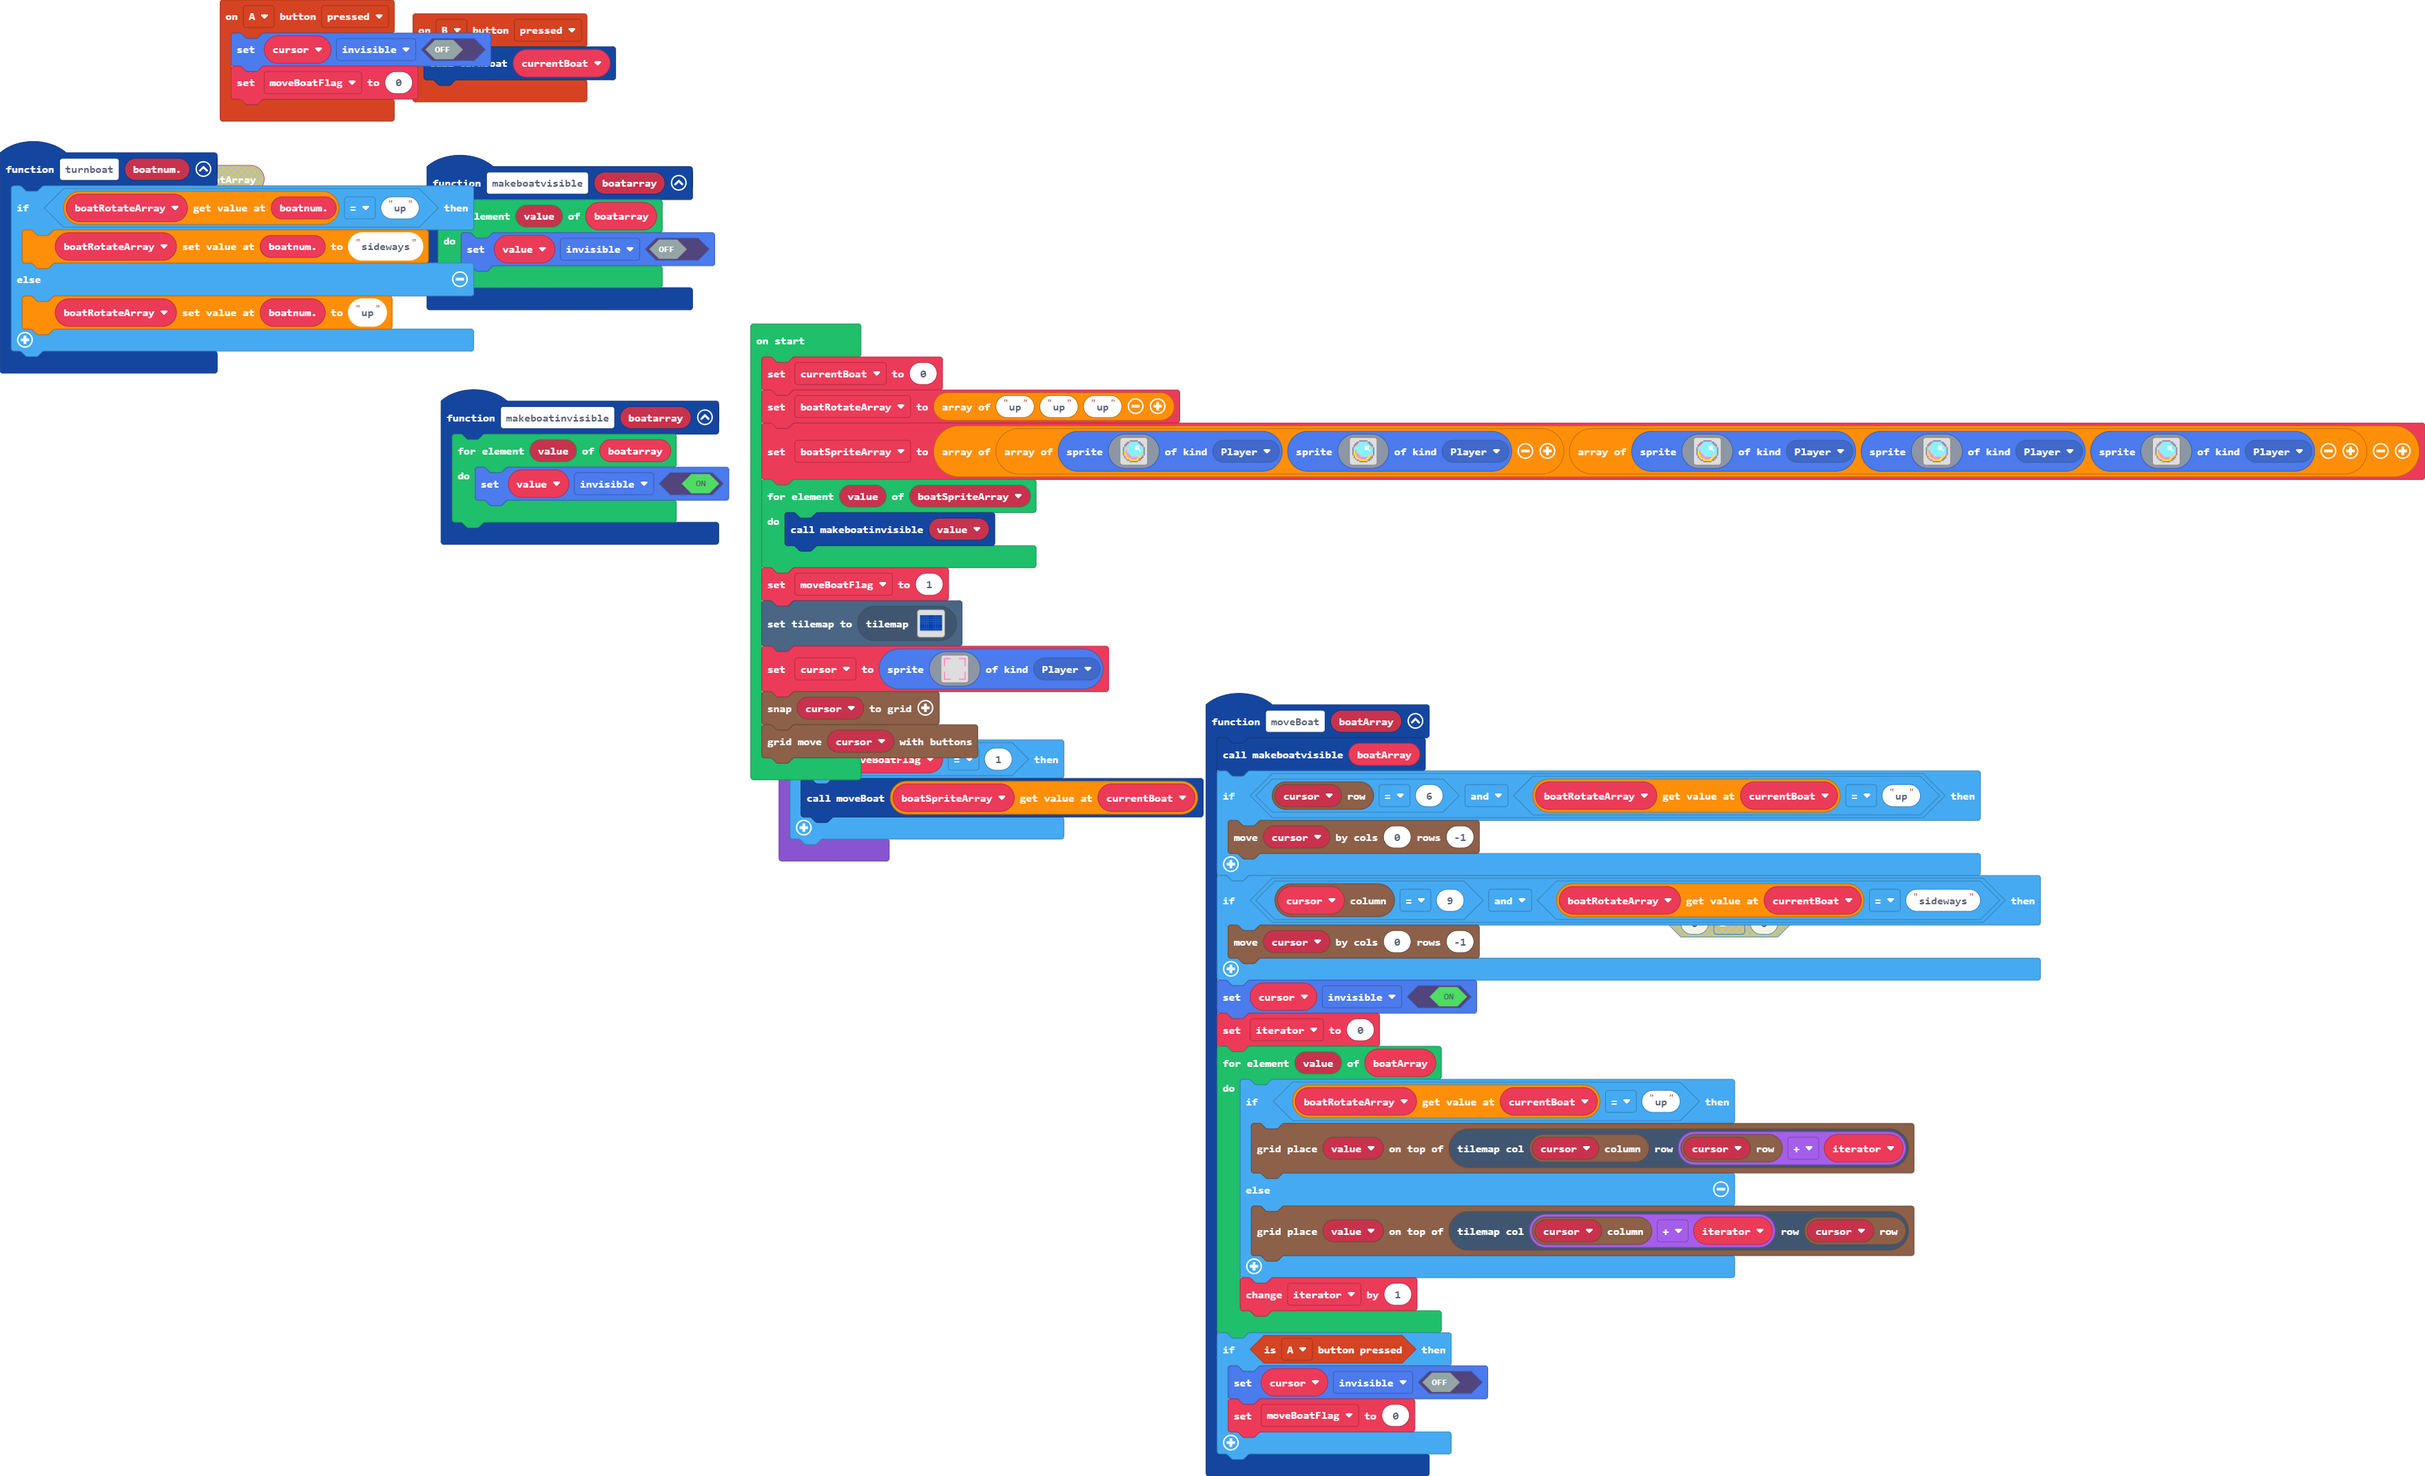
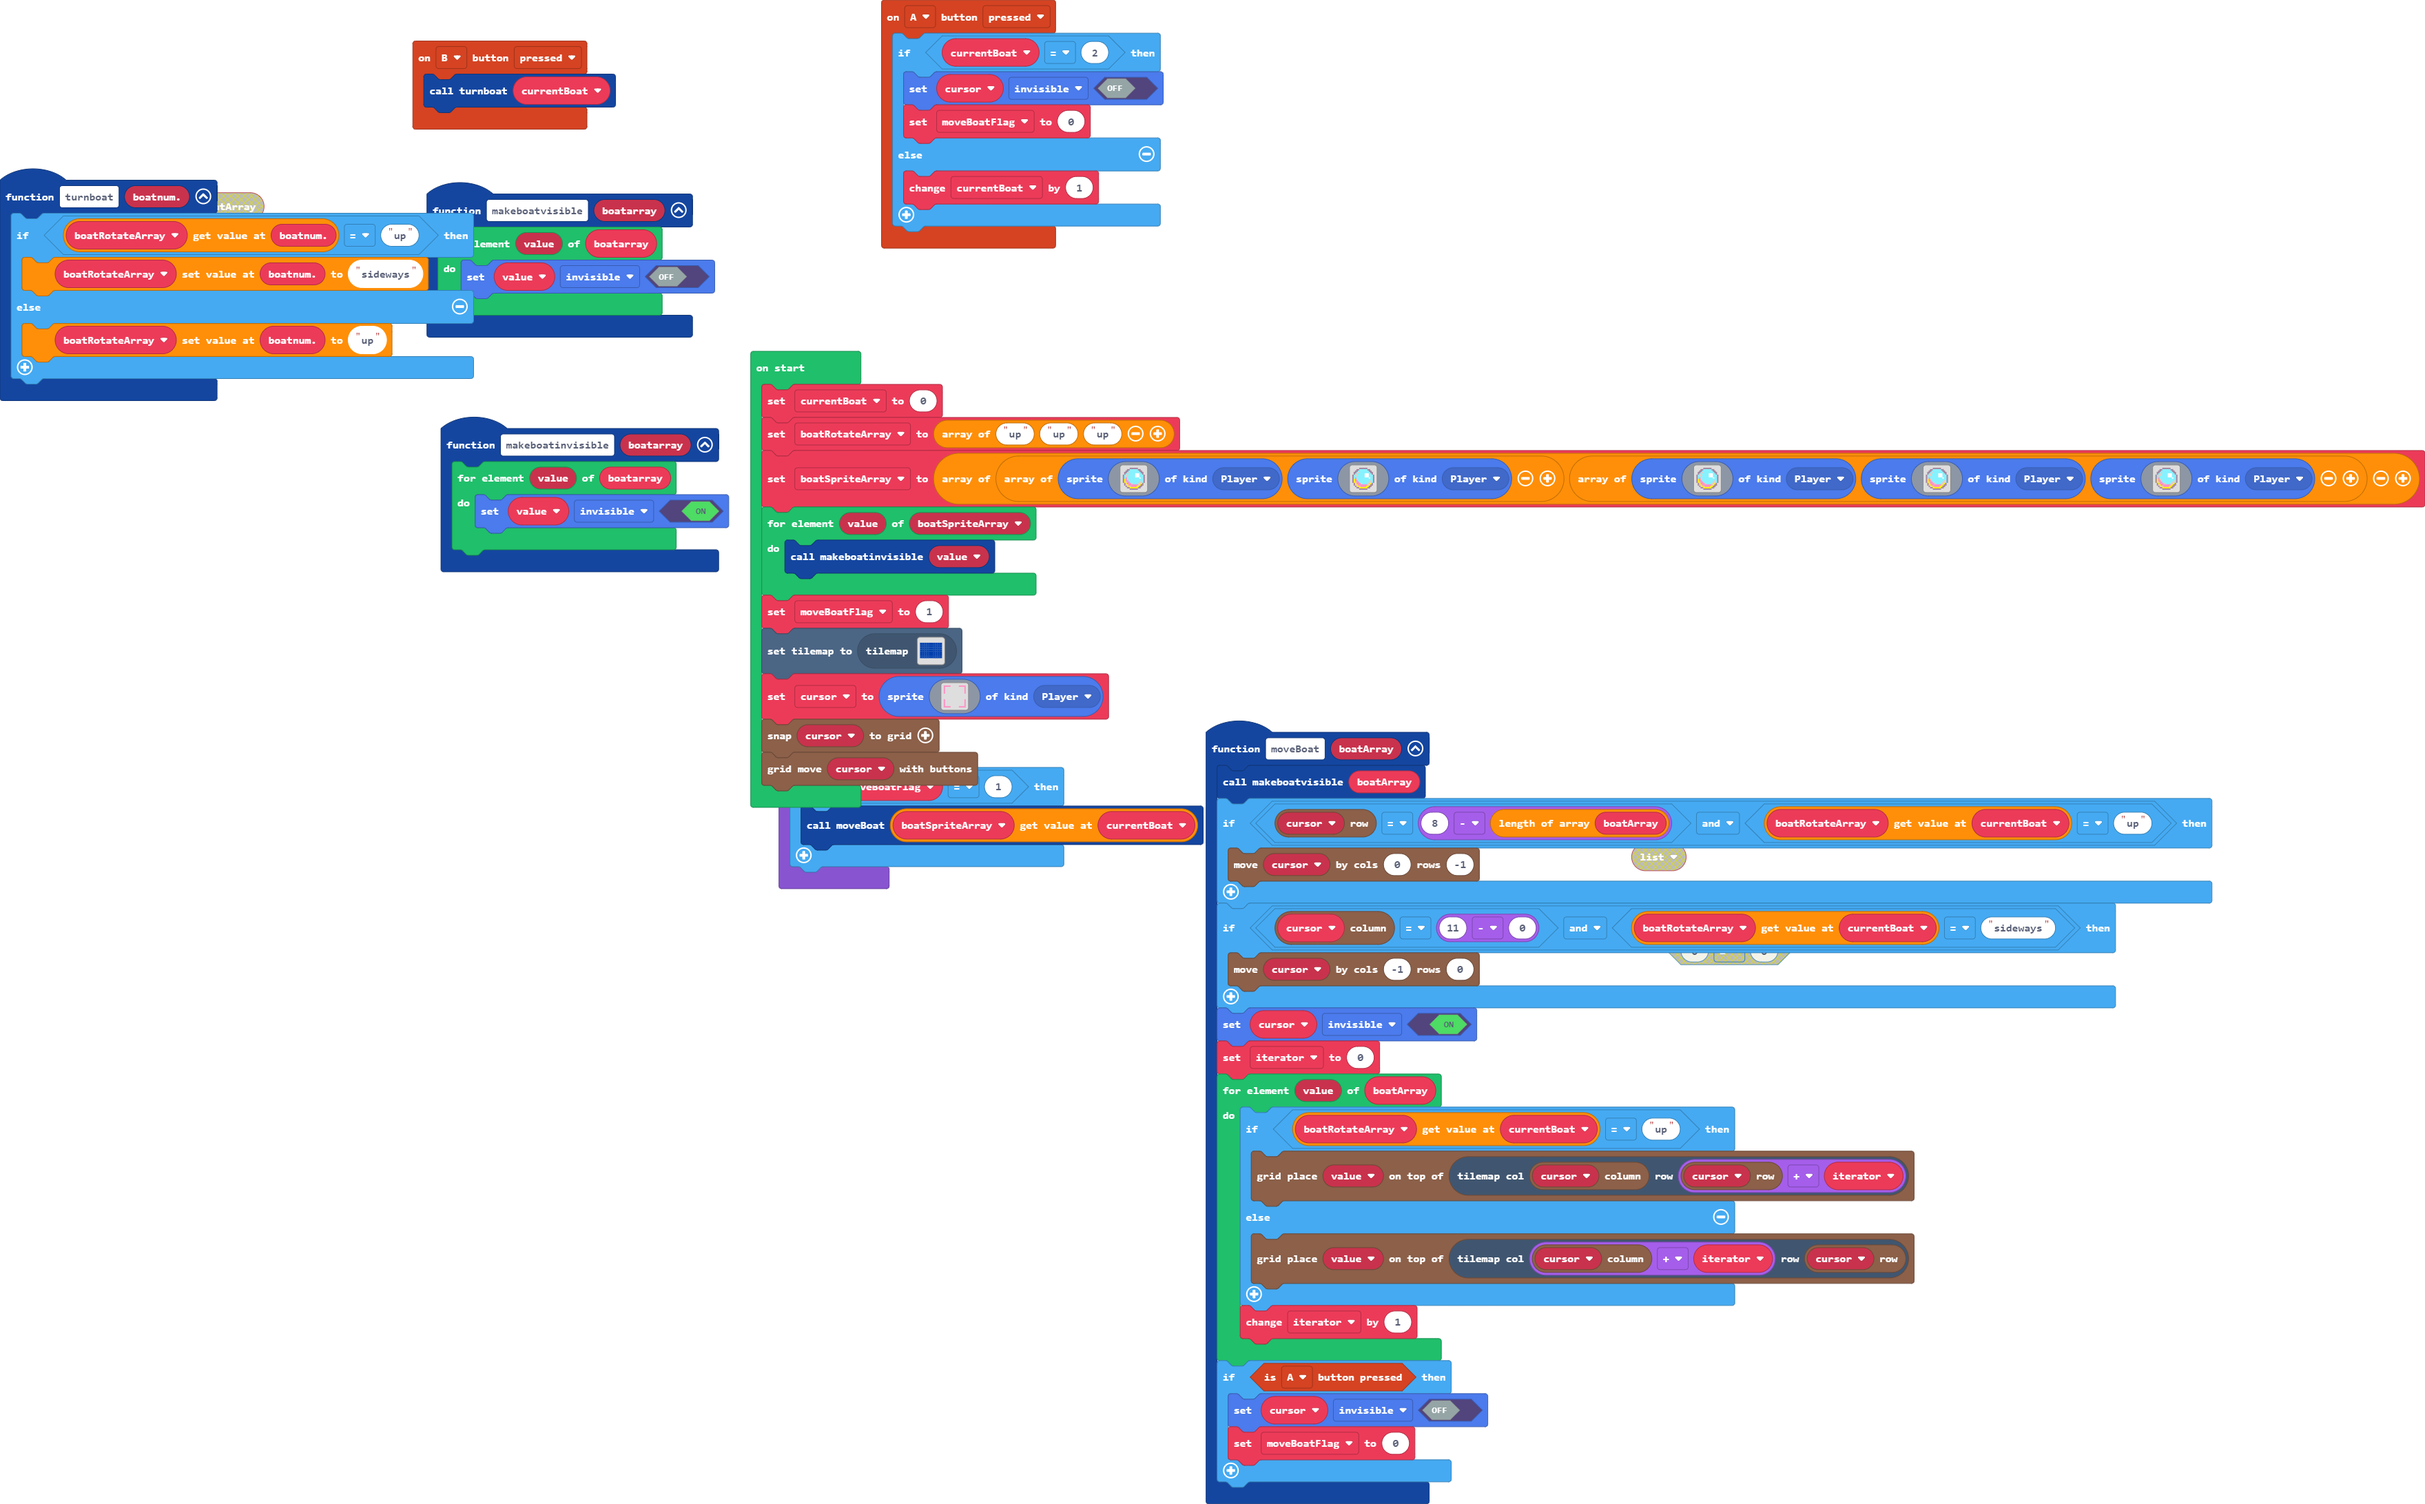
boat 1

Changed region(s): [[0.0, 0.0, 1.0, 0.9855], [0.3438, 0.0, 0.5, 0.1848]]

diff --git a/main.ts b/main.ts
@@ -2,8 +2,12 @@ controller.B.onEvent(ControllerButtonEvent.Pressed, function () {
     turnboat(currentBoat)
 })
 controller.A.onEvent(ControllerButtonEvent.Pressed, function () {
-    cursor.setFlag(SpriteFlag.Invisible, false)
-    moveBoatFlag = 0
+    if (currentBoat == 2) {
+        cursor.setFlag(SpriteFlag.Invisible, false)
+        moveBoatFlag = 0
+    } else {
+        currentBoat += 1
+    }
 })
 function turnboat (boatnum: number) {
     if (boatRotateArray[boatnum] == "up") {
@@ -14,11 +18,11 @@ function turnboat (boatnum: number) {
 }
 function moveBoat (boatArray: any[]) {
     makeboatvisible(boatArray)
-    if (grid.spriteRow(cursor) == 6 && boatRotateArray[currentBoat] == "up") {
+    if (grid.spriteRow(cursor) == 8 - boatArray.length && boatRotateArray[currentBoat] == "up") {
         grid.move(cursor, 0, -1)
     }
-    if (grid.spriteCol(cursor) == 9 && boatRotateArray[currentBoat] == "sideways") {
-        grid.move(cursor, 0, -1)
+    if (grid.spriteCol(cursor) == 11 - 0 && boatRotateArray[currentBoat] == "sideways") {
+        grid.move(cursor, -1, 0)
     }
     cursor.setFlag(SpriteFlag.Invisible, true)
     iterator = 0
